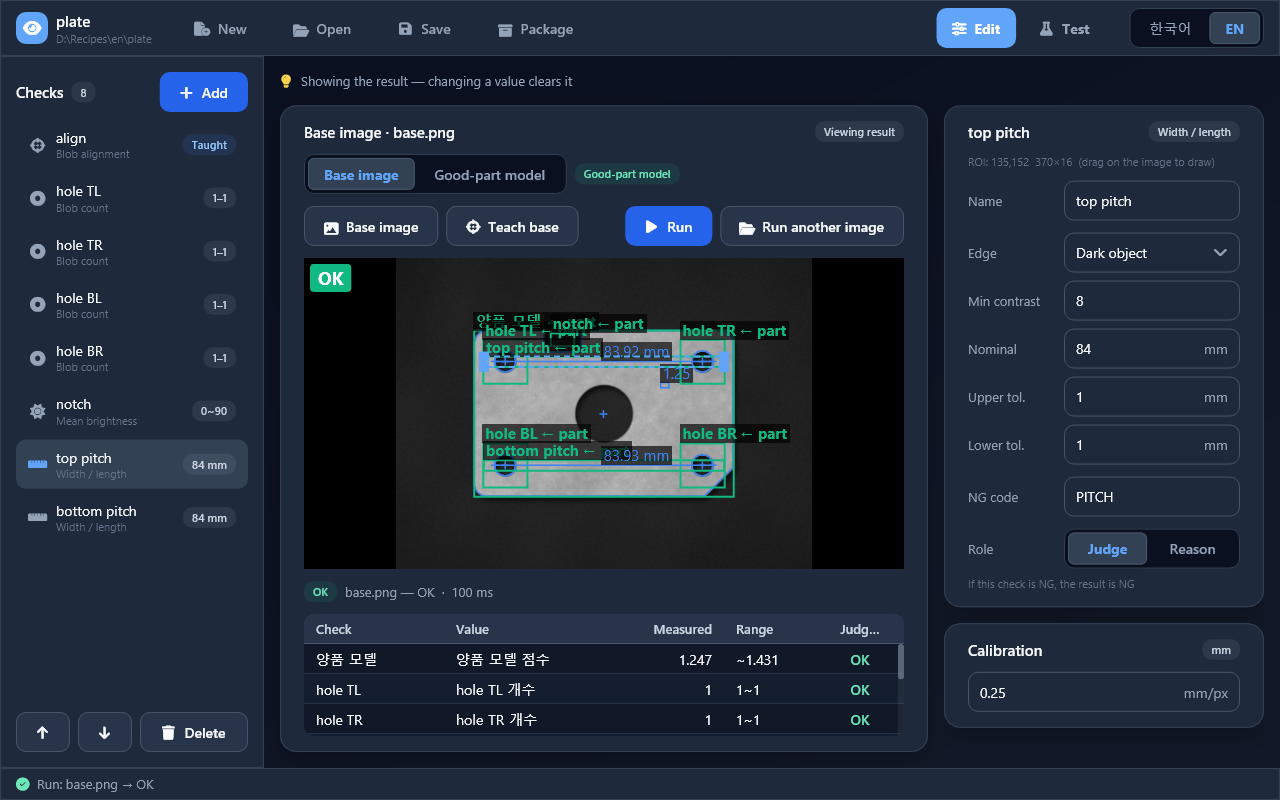
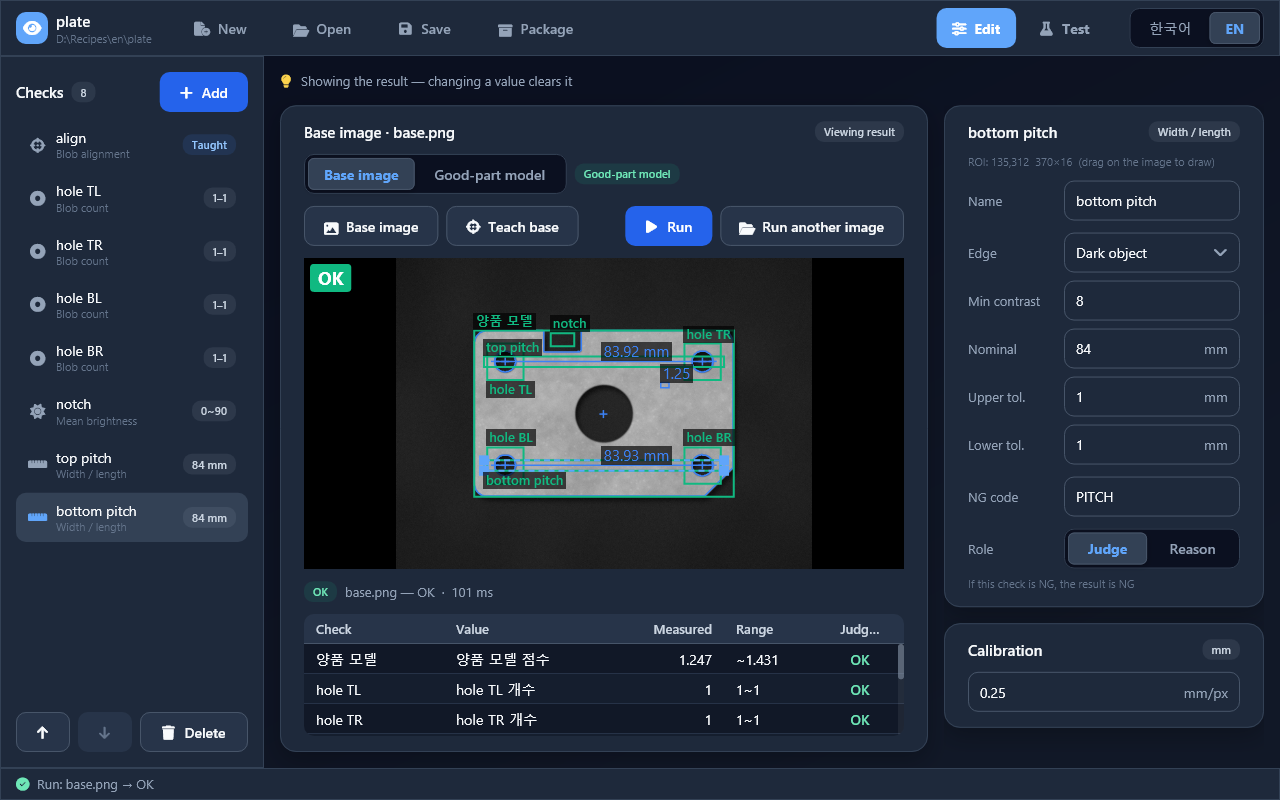
fix(ui): overlay labels no longer cover each other
ROI labels are the step name only (the followed pose stays in StepResult.Followed). Labels are placed after all shapes, NG and Error ROIs first, each in a free spot; a ROI name with no free spot is left out, values are always drawn. Labels are drawn above the edit ROI so its dashes do not cross the text. Studio screenshots retaken.

diff --git a/src/Devinno.Vision.UI/VisionViewWidget.cs b/src/Devinno.Vision.UI/VisionViewWidget.cs
@@ -57,6 +57,7 @@ internal sealed class VisionViewWidget : DvWidget
                 DrawOverlay(canvas, ctx, o, snap);
             if (snap.StepName is null && (_preview ?? editRoi) is { } roi)
                 DrawEditRoi(canvas, ctx, roi);
+            DrawLabels(canvas, ctx, snap, dest);   // 글자는 맨 위에 — 편집 ROI 의 점선이 글자를 가로지르지 않게
             canvas.Restore();
 
             // 판정 · 경고
@@ -98,16 +99,7 @@ internal sealed class VisionViewWidget : DvWidget
         var pts = o.Points.Select(p => ToSk(_sourceToScreen.Map(p))).ToArray();
         if (pts.Length == 0)
             return;
-        var tone = o.Kind == VisionOverlayKind.Roi
-            ? (snap.StepStates.GetValueOrDefault(o.Step) switch
-            {
-                StepState.Ok => "tone-success",
-                StepState.Ng => "tone-danger",
-                StepState.Error => "tone-warning",
-                _ => "text-muted",
-            })
-            : "tone-info";
-        using var pen = new SKPaint { IsAntialias = true, Style = SKPaintStyle.Stroke, StrokeWidth = o.Kind == VisionOverlayKind.Roi ? 2 : 1.5f, Color = ctx.Color(tone, SKColors.Cyan) };
+        using var pen = new SKPaint { IsAntialias = true, Style = SKPaintStyle.Stroke, StrokeWidth = o.Kind == VisionOverlayKind.Roi ? 2 : 1.5f, Color = ctx.Color(Tone(o, snap), SKColors.Cyan) };
         switch (o.Kind)
         {
             case VisionOverlayKind.Roi or VisionOverlayKind.Box or VisionOverlayKind.Contour:
@@ -126,16 +118,52 @@ internal sealed class VisionViewWidget : DvWidget
                 canvas.DrawLine(pts[0].X, pts[0].Y - 4, pts[0].X, pts[0].Y + 4, pen);
                 break;
         }
-        if (o.Label is { } label)
+    }
+
+    private static string Tone(VisionOverlay o, ViewSnapshot snap) => o.Kind == VisionOverlayKind.Roi
+        ? (snap.StepStates.GetValueOrDefault(o.Step) switch
         {
-            var at = o.Kind == VisionOverlayKind.Line && pts.Length >= 2 ? new SKPoint((pts[0].X + pts[1].X) / 2, (pts[0].Y + pts[1].Y) / 2 - 4) : new SKPoint(pts[0].X + 2, pts[0].Y - 4);
-            // 회색 이미지 위에서도 읽히게 어두운 받침
-            var bold = o.Kind == VisionOverlayKind.Roi;
-            const float size = 15;   // 12 → 15: 실제 창에서 길이 라벨이 안 읽혀 키움
-            var w = ctx.MeasureText(label, size, bold ? 700 : 400);
-            using var back = new SKPaint { Color = new SKColor(0, 0, 0, 170) };
-            canvas.DrawRect(new SKRect(at.X - 3, at.Y - size, at.X + w + 3, at.Y + 4), back);
-            ctx.DrawText(canvas, label, at.X, at.Y, size, pen.Color, weight: bold ? 700 : 400);
+            StepState.Ok => "tone-success",
+            StepState.Ng => "tone-danger",
+            StepState.Error => "tone-warning",
+            _ => "text-muted",
+        })
+        : "tone-info";
+
+    // 라벨은 도형을 다 그린 뒤에 놓는다. 서로 겹치지 않게: 먼저 놓는 것이 자리를 차지하고 (NG · Error 인 ROI → 측정값 → 나머지 ROI),
+    // 뒤의 것은 다른 자리를 찾는다. ROI 이름은 자리가 없으면 그리지 않는다 (테두리 색은 남는다). 측정값은 겹치더라도 그린다.
+    private void DrawLabels(SKCanvas canvas, DvWidgetContext ctx, ViewSnapshot snap, SKRect image)
+    {
+        static int Order(VisionOverlay o, ViewSnapshot snap) => o.Kind != VisionOverlayKind.Roi ? 1
+            : snap.StepStates.GetValueOrDefault(o.Step) is StepState.Ng or StepState.Error ? 0 : 2;
+
+        var placed = new List<SKRect>();
+        using var back = new SKPaint { Color = new SKColor(0, 0, 0, 170) };   // 회색 이미지 위에서도 읽히게 어두운 받침
+        foreach (var o in snap.Overlays.Where(o => o.Label is not null && o.Points.Count > 0).OrderBy(o => Order(o, snap)))
+        {
+            var pts = o.Points.Select(p => ToSk(_sourceToScreen.Map(p))).ToArray();
+            var roi = o.Kind == VisionOverlayKind.Roi;
+            var size = roi ? 13f : 15f;   // 측정값 15: 실제 창에서 길이 라벨이 안 읽혀 키움. ROI 이름은 한 단계 작게
+            var weight = roi ? 600 : 400;
+            var w = ctx.MeasureText(o.Label!, size, weight);
+            float left = pts.Min(p => p.X), right = pts.Max(p => p.X), top = pts.Min(p => p.Y), bottom = pts.Max(p => p.Y);
+
+            // 글자 기준점(왼쪽 아래) 후보
+            SKPoint[] spots = o.Kind == VisionOverlayKind.Line && pts.Length >= 2
+                ? [new((pts[0].X + pts[1].X) / 2, (pts[0].Y + pts[1].Y) / 2 - 4), new((pts[0].X + pts[1].X) / 2, (pts[0].Y + pts[1].Y) / 2 + size + 2)]
+                : roi
+                    ? [new(left + 2, top - 5), new(left + 2, bottom + size + 1), new(right - w - 2, top - 5), new(right - w - 2, bottom + size + 1)]
+                    : [new(pts[0].X + 2, pts[0].Y - 4), new(pts[0].X + 2, pts[0].Y + size + 2)];
+            SKRect Box(SKPoint at) => new(at.X - 3, at.Y - size, at.X + w + 3, at.Y + 4);
+            bool Free(SKPoint at) => image.Contains(Box(at)) && !placed.Any(r => r.IntersectsWith(Box(at)));
+
+            var found = spots.Where(Free).Select(p => (SKPoint?)p).FirstOrDefault();
+            if (found is null && roi)
+                continue;
+            var spot = found ?? spots[0];
+            placed.Add(Box(spot));
+            canvas.DrawRect(Box(spot), back);
+            ctx.DrawText(canvas, o.Label!, spot.X, spot.Y, size, ctx.Color(Tone(o, snap), SKColors.Cyan), weight: weight);
         }
     }
 

diff --git a/src/Devinno.Vision/Inspection/JobCore.cs b/src/Devinno.Vision/Inspection/JobCore.cs
@@ -68,14 +68,15 @@ internal sealed class JobRun
         return Frame.CropPlaced(center, roi.Width, roi.Height, angle);
     }
 
-    public void AddRoiOverlay(VisionRoi roi, Affine? motion, string step, string? followed)
+    public void AddRoiOverlay(VisionRoi roi, Affine? motion, string step)
     {
         if (roi.IsEmpty)
             return;
         var corners = roi.Corners();
         if (motion is { } m)
             corners = corners.Select(m.Map).ToArray();
-        AddOverlay(new VisionOverlay(VisionOverlayKind.Roi, corners, followed is null ? step : $"{step} ← {followed}", step));
+        // 라벨은 단계 이름만 — 따라간 pose 는 StepResult.Followed 에 있다 (라벨에 붙이면 검사가 많을 때 화면이 글자로 덮인다)
+        AddOverlay(new VisionOverlay(VisionOverlayKind.Roi, corners, step, step));
     }
 
     public void AddValue(VisionValue v)
@@ -371,7 +372,7 @@ internal sealed class JobCore(string name)
                         if (roi.IsEmpty)
                             throw new InvalidOperationException("The ROI is not set.");
                         stepImage = run.Place(roi, motion);
-                        run.AddRoiOverlay(roi, motion, name, followed);
+                        run.AddRoiOverlay(roi, motion, name);
                     }
                     else
                     {

diff --git a/src/Devinno.Vision/Inspection/VisionContext.cs b/src/Devinno.Vision/Inspection/VisionContext.cs
@@ -216,7 +216,7 @@ public sealed class VisionContext
     public VisionImage Crop(VisionRoi roi)
     {
         var img = _run.Place(roi, _motion);
-        _run.AddRoiOverlay(roi, _motion, Step, _followed);
+        _run.AddRoiOverlay(roi, _motion, Step);
         return img;
     }
 
